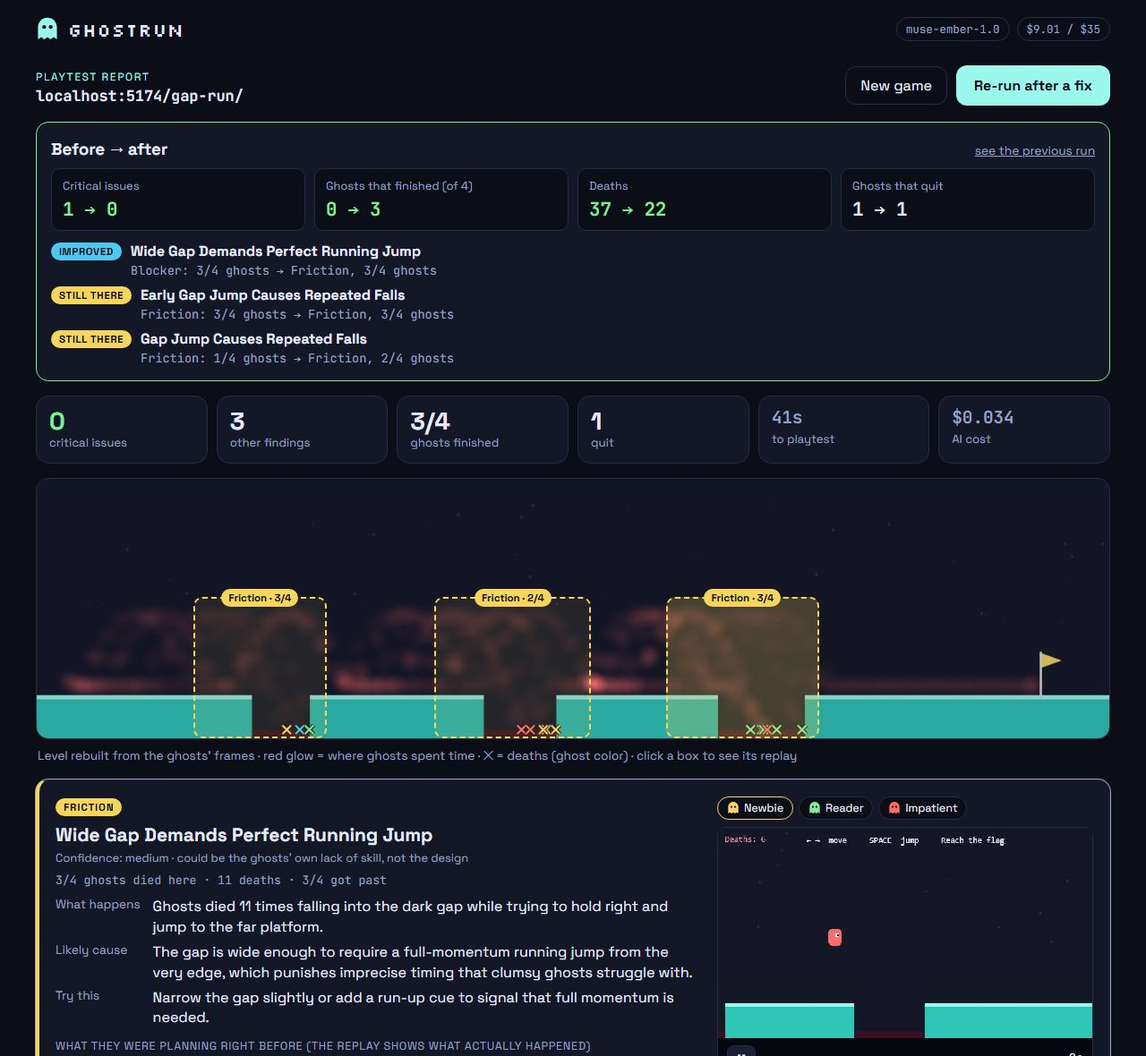
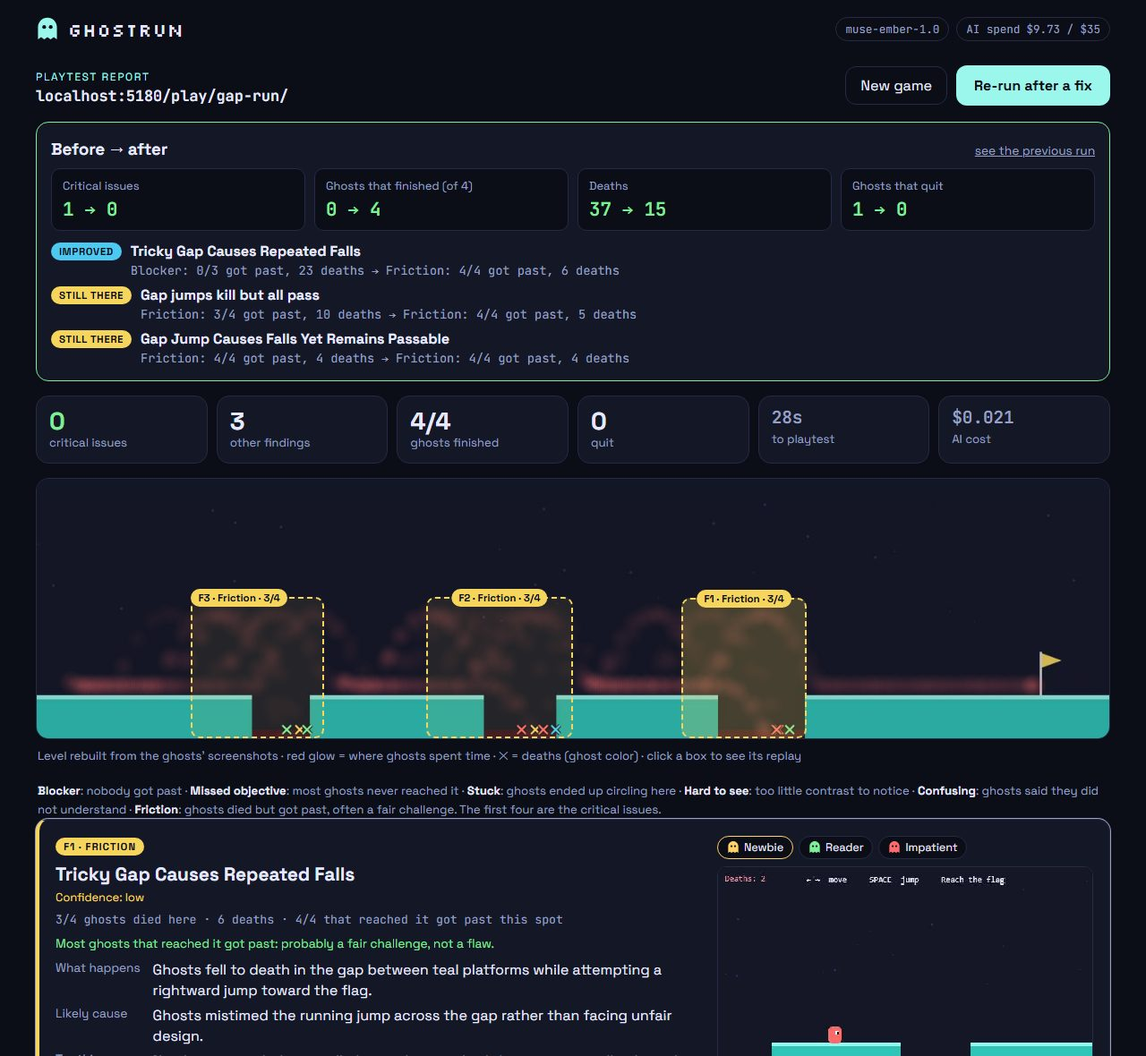
Docs: held-out results first, measured limits, second review round
- README and benchmark lead with the held-out third round (9/10, 0/10), show
  friction on clean games, the rules decided after looking at the data and
  95% intervals; cases table counts six runs per case.
- The written cause of a card is named as the least reliable part, with the
  measurement behind it.
- failure-handling: the second attack round and the analyst's check.
- ai-review-log: the second round of ten test agents.
- New gallery from real runs of the current version.

diff --git a/bench/README.md b/bench/README.md
@@ -18,8 +18,19 @@ The known answer for each flaw (its type and the area of the level where it is) 
 
 For each run, 4 ghosts (Newbie, Speedrunner, Reader, Impatient) play up to 40 moves each with `muse-ember-1.0`, then the analysis (no AI) produces findings.
 
-- **Found** = a finding of a compatible type overlaps the area of the planted flaw.
-- **False alarm** = a high-severity blocker, missed-objective, stuck or hard-to-see finding on a clean game.
+- **Found** = a **critical** finding (high-severity blocker, missed objective, stuck or hard to see) of a compatible type overlaps the area of the planted flaw.
+- **False alarm** = the same kind of critical finding on a clean game.
+
+What this rule does and does not measure (several of these were pointed out by a skeptical-reviewer agent, 21 Nov):
+
+- **"Friction"** (ghosts died at a spot but got past) counts neither way. It also shows up on clean games, at hard but fair spots: in 18 of the 30 clean runs of the last three rounds. The report labels it as probably fair.
+- A missed-objective finding also counts when it names the planted objective (for example "lever"). It changes nothing here: all 17 critical objective findings on flawed games also overlap the flaw's area.
+- Read Me's flaw (the instructions name the wrong key) is found through its effect: a blocker or a missed objective at the pit that needs the dash. The "confusion" finding type itself is not scored, so this benchmark does not test it.
+- With 30 flawed and 30 clean runs the uncertainty is wide: 27/30 found means 74–97%, and 0/30 false alarms means at most 11% (95% Wilson intervals). The held-out third round alone: 9/10 means 60–98%, 0/10 at most 28%.
+- Costs are the token counts Meta returns, priced with Meta's published prices (read on 21 Nov, `src/brains/prices.mjs`), not an invoice.
+- All five games and their flaws were made by us (with AI help, checked by a person: [review log](../docs/ai-review-log.md)). NILO, [below](#hard-case-a-real-jam-game-we-did-not-make), is the one game made by someone else.
+
+One rule for both, since 21 November (night): before, a "friction" finding also counted as found, which was too lenient ([below](#the-scoring-rule-we-changed-after-a-review)). Older rows in the table keep the rule they were scored with; the "strict" rows re-score the same runs.
 
 Run it yourself: `npm run bench -- --label mine --reps 2` (needs `MODEL_API_KEY`), then `node bench/compare.mjs before-cache mine`. Add `--ask-position` to also measure how well the ghosts see their character (`node bench/perception.mjs mine`).
 
@@ -35,12 +46,27 @@ Run it yourself: `npm run bench -- --label mine --reps 2` (needs `MODEL_API_KEY`
 | [optimized-v3](results/optimized-v3.md) | cheaper, better-informed ghosts ([below](#cheaper-and-better-ghosts)) | 8/10 | 0/10 | $0.015 billed |
 | optimized-v3, re-scored | + contrast check of objectives ([below](#what-ai-eyes-see-that-people-do-not)), same runs | **10/10** | **0/10** | — |
 | [optimized-v3-holdout](results/optimized-v3-holdout.md) | same code, **fresh runs** (8/10 by the ghosts alone), re-scored with the contrast check | **10/10** | **0/10** | $0.016 billed |
+| optimized-v3 + holdout, **strict rule** | same 40 runs, critical findings only, plus the analysis fixes found by test agents | **18/20** | **0/20** | — |
+| [optimized-v5](results/optimized-v5.md) | the same version, **fresh runs** played after those fixes, strict rule | **9/10** | **0/10** | $0.015 billed |
 
 "Billed" counts cached input at Meta's cached rate; earlier rows are list price (cached tokens were not recorded yet), so compare them with care. Measured with the cache, the old ghosts cost $0.018 per run, not $0.025.
 
 **Why the rule changed.** In the baseline, both false alarms were in the clean Spike Maze: in single-screen games we only counted a ghost as "getting past" a deadly spot if it finished the level, and ghosts that ran out of moves near the end looked blocked. The new rule: a ghost gets past a spot if it later reaches an objective; a **blocker** needs at least two ghosts dying there three or more times with nobody getting past. Because the rule was changed after seeing those runs, we judged it on a fresh run (holdout).
 
 **The one false alarm in the holdout** (clean Lever Room): two ghosts spent their moves trying to climb the closed door, which they read as a ladder (*"holding up never actually climbed me higher"*). We count it as a false alarm, but it may be a real readability issue in our own test game.
+
+### The scoring rule we changed after a review
+
+On 21 November (night) we had the project reviewed by ten AI agents playing roles (a jam developer, a teenager in a hurry, a phone user, a teacher, an attacker, four judges, a skeptical engineer; Claude Haiku, each one using the real app or code). The skeptical engineer found that our "found" rule was too lenient: a **friction** finding (ghosts died but got past) counted as finding a flaw, and friction also appears at the same places in the **clean** versions of two games (Spike Maze's spikes, Read Me's pit). So for those two games, "found" did not tell the flawed version from the clean one. We checked it on the data and he was right:
+
+| Same 40 runs (optimized-v3 + holdout) | Flawed versions: flaw "found" | Clean versions: the same rule fires |
+|---|---|---|
+| Old rule: any compatible finding, friction included | 20/20 | 8/20 (Spike Maze and Read Me) |
+| **New rule: critical findings only** | **18/20** | **0/20** |
+
+Now one rule decides both "found" and "false alarm". The two misses are Spike Maze's invisible spikes, which the ghosts only reported as friction in one run of each round. The test agents also found three analysis bugs, fixed and covered by tests: a wide gap whose deaths split into two contradicting findings ("2/4 got past" next to "0/4 got past" for the same gap), ghosts that ended stuck attached to the wrong finding, and single deaths shown as findings. Re-scoring the 90 recorded runs with the fixes changed no result for the worse. A fresh round played after the fixes and not used to tune anything ([optimized-v5](results/optimized-v5.md)) found 9/10 flaws with 0/10 false alarms, like each earlier round, with the same miss. Across the three rounds: **27/30** found, **0/30** false alarms (`node bench/compare.mjs before-cache-v5 optimized-v3-gapfix+optimized-v3-holdout-gapfix+optimized-v5-gapfix`).
+
+Checking the new screenshots afterwards, we found that the merge for wide gaps also joined two neighbouring gaps into one finding: the run-up to the second gap starts where the first gap's area ends, so their areas touched. Now two areas are one place only if they overlap by at least a quarter of the smaller one (the two halves of one wide gap overlapped 54% and 89% in our runs; neighbouring gaps 1–10%). Re-scoring the three rounds with it ("-gapfix"): the same 27/30 and 0/30; in four Gap Run runs a finding that spanned two gaps became two findings.
 
 ## Perception: does the model see its own character?
 
@@ -100,7 +126,7 @@ A pass on the ghost loop (21 Nov), each change measured. 40 fresh runs of the ne
 
 | | Before (10 runs) | After (40 runs) |
 |---|---|---|
-| Flaws found | 5/5 | 16/20 by the ghosts, **20/20** with the contrast check ([below](#what-ai-eyes-see-that-people-do-not)) |
+| Flaws found (strict rule: critical findings only) | 5/5 | **18/20**: 14 by what the ghosts did, 4 by the contrast check ([below](#what-ai-eyes-see-that-people-do-not)) |
 | Clean runs with a false alarm | 0/5 | **0/20** |
 | Ghosts that finished the clean games | 60% | **74%** |
 | Moves per run | 113 | **90** (−20%) |
@@ -127,7 +153,7 @@ Tried and rejected:
 - **Fewer moves per ghost**: 30 instead of 40 saved 9% of the moves, but 3 fewer ghosts finished. Kept 40 (the app lets you choose 20, 40 or 60).
 - **Not asking for the ghost's position where the game already knows it.** Games with the SDK report positions themselves, so we dropped the ghost's own position estimate and "what I see" from its answer. On 120 recorded moves re-sent both ways, output fell from 263 to 229 tokens ([probe](results/probe-fields.md)), and a full round ([optimized-v4](results/optimized-v4.md)) cost **13% less** with the same flaws found. But 2 of its 10 clean runs got a false alarm, both at the visible spikes by Spike Maze's exit. A targeted test (Spike Maze clean, 4 runs each way: [maze-compact](results/maze-compact.md), [maze-full](results/maze-full.md)) pointed the same way: without the field, 4 of 16 ghosts died there 3 or more times, with it none. Pooling every round, ghosts died by those spikes 1.9 times each without the field and 1.1 with it, and clean maze runs got a false alarm in 2 of 6 without it, 0 of 8 with it. Asking the model where it is makes it reason about where it is, and that matters next to hazards. **Rejected**: the field stays.
 
-**Against our own target.** We aimed at −40% cost per run and got −17% for the ghosts and −47% for the analyst, about −30% for a full playtest. The ghosts now reason more per move (149 vs 109 tokens) because they have more to reason about: that is the price of better decisions, and a run is still cheaper because it needs fewer moves.
+**Against our own target.** We aimed at −40% cost per run and got −17% for the ghosts and −47% for the analyst, about −25% for a full playtest ($0.026 → $0.019). The ghosts now reason more per move (149 vs 109 tokens) because they have more to reason about: that is the price of better decisions, and a run is still cheaper because it needs fewer moves.
 
 Found on the way: Meta's structured output returns the fields in **alphabetical order** ([probe-output.mjs](probe-output.mjs)), so a ghost writes its "thought" after its keys. That matches review R3: the sentences are the ghost's plan for the move, not a description of what happened.
 
@@ -145,7 +171,7 @@ So Ghostrun now also **measures** it, without AI: for each objective the game ma
 | Lever Room | door | 12.9:1 | 12.9:1 |
 | Spike Maze | checkpoint | 3.6:1 | 3.6:1 |
 
-Measured on the recorded screens of 70 benchmark runs ([contrast.md](results/contrast.md)), it flags exactly the two planted invisible objects and nothing on any clean game. Re-scoring 90 recorded runs with it (45 of them clean) added no false alarm, and both rounds of the new version find **10/10** flaws with **0/10** false alarms. It was designed after the first round; the second round was played before it existed and was not used to tune it.
+Measured on the recorded screens of 70 benchmark runs ([contrast.md](results/contrast.md)), it flags exactly the two planted invisible objects and nothing on any clean game. Re-scoring 90 recorded runs with it (45 of them clean) added no false alarm, and the faint key went from missed to found in all 4 runs of the two rounds (with the strict rule, each round finds 9/10 flaws with 0/10 false alarms); a third round, played later, found the faint key in both of its runs and nothing on the clean games. It was designed after the first round; the second round was being played at the same time and was not used to tune it. All rounds use the same five games, so this is a check on fresh plays, not on new games.
 
 Limit: it only checks objects the game declares. An undeclared hazard (Spike Maze's invisible spikes) is still found only through what the ghosts do (deaths), which worked there because dying is visible to any player.
 
@@ -153,7 +179,7 @@ Limit: it only checks objects the game declares. An undeclared hazard (Spike Maz
 
 Rafael played all ten variants himself with the SDK's recorder on (`?human=1`, see `games/index.html`) — [results](results/people-vs-ghosts.md).
 
-**Every spot where he died or ended up stuck was also flagged by the ghosts: 4/4.**
+**Every spot where he died or ended up stuck was also flagged by the ghosts: 4/4.** Two of the four only as friction, which the strict benchmark rule does not count. It measures one direction only (what he hit, did the ghosts flag it?), with one person who already knew the flaws: a first check, not a blind test.
 
 - Gap Run with the flaw: he died 3 times at the third gap and left → the ghosts' **blocker**.
 - Spike Maze with the flaw: he died once at the visible spikes near the exit → a ghost **friction** finding.

diff --git a/README.md b/README.md
@@ -12,7 +12,7 @@ Built by Rafael Gálvez (solo, student) for the [Global AI Builder's Challenge](
 
 In a game jam you build a game in 48–96 hours. Three hours before the deadline it works… for you: you know the level by heart, so you cannot see what a newcomer will not understand. Everyone else is busy with their own game, so nobody playtests yours. You ship blind, and the comments ("I didn't know what to do in level 2") arrive after the jam, when you can no longer fix anything.
 
-It is not a small group: the GMTK Game Jam 2025 alone received [9,515 games in four days](https://itch.io/jam/gmtk-2025/entries). Studios pay for AI playtesting ([nunu.ai raised about $6M](https://gamesbeat.com/nunu-ai-raises-6m-for-ai-agents-dubbed-unembodied-minds-for-game-testing/)); jam developers, mostly students and hobbyists, have nothing.
+It is not a small group: the GMTK Game Jam 2025 alone received [more than 9,500 games in four days](https://itch.io/jam/gmtk-2025/entries). Studios pay for AI playtesting ([nunu.ai raised about $6M](https://gamesbeat.com/nunu-ai-raises-6m-for-ai-agents-dubbed-unembodied-minds-for-game-testing/)); jam developers, mostly students and hobbyists, have nothing.
 
 ## What Ghostrun does
 
@@ -30,21 +30,25 @@ It is not a small group: the GMTK Game Jam 2025 alone received [9,515 games in f
 
 ## Does it work? (measured, not claimed)
 
-Five small web games, each with a clean version and a version with one planted design flaw whose type and place we know ([benchmark](bench/README.md)). The current version, on 40 fresh runs:
+Five small web games, each with a clean version and a version with one planted design flaw whose type and place we know ([benchmark](bench/README.md)), played in three rounds of 20 runs. We changed rules after looking at the first two rounds, so the honest test is the third: played afterwards, and not used to tune anything.
 
-| | Result |
-|---|---|
-| Planted flaws found (right type, right place) | **20/20** |
-| Clean games with a false alarm | **0/20** |
-| Ghosts that finished the clean games | **74%** |
-| Cost and time per playtest (4 ghosts and the analyst) | **about $0.02, under a minute** |
-| Spots where a person died or got stuck that the ghosts also flagged | **4/4** ([people vs ghosts](bench/README.md#people-vs-ghosts)) |
+| | Third round (held out) | All three rounds |
+|---|---|---|
+| Planted flaws found: a critical finding of the right type in the right place | **9/10** | 27/30 (21 from what the ghosts did, 6 from the contrast measurement) |
+| Clean games with a false alarm: the same kind of finding where there is no flaw | **0/10** | 0/30 |
+| Clean games where the report still shows a hard spot ("friction": ghosts died there but got past; counted neither way) | 6/10 | 18/30 |
+| Ghosts that finished the clean games | 78% | 75% |
+
+- **Cost and time per playtest** (4 ghosts and the analyst): about $0.02 and under a minute on these games (41 s on average; the maze takes about a minute).
+- **People vs ghosts:** every spot where a person died or got stuck was also flagged by the ghosts, 4/4 (2 of them only as friction). One person, the developer, not blind ([details](bench/README.md#people-vs-ghosts)).
+
+One rule decides "found" and "false alarm", so neither can be bought with the other: only critical findings count. "Friction" counts neither way, because it also shows up on clean games at hard but fair spots, and the report labels it as probably fair. The miss of each round is Spike Maze's invisible spikes, which the ghosts reported only as friction. Decided after looking at the first two rounds: counting only critical findings ([why](bench/README.md#the-scoring-rule-we-changed-after-a-review)), the contrast check with our own 1.5:1 line for "practically invisible" (the faint key measures 1.09:1), and treating the deaths at both edges of one wide gap as one spot. With so few runs the uncertainty is wide: 27/30 means 74–97% and 0/30 false alarms means at most 11% (95% intervals).
 
 | Case | What happened |
 |---|---|
-| Normal: Gap Run, one gap too wide to jump | Blocker at that gap in 4/4 runs |
-| Normal: Key Hunt, key drawn in the floor colour | "Hard to see" (contrast 1.09:1) in 4/4 runs |
-| Repeat: the same 10 variants, a second fresh round | 10/10 flaws and 0/10 false alarms again |
+| Normal: Gap Run, one gap too wide to jump | Blocker at that gap in 6/6 runs (three rounds) |
+| Normal: Key Hunt, key drawn in the floor colour | "Hard to see" (contrast 1.09:1) in 6/6 runs |
+| Repeat: the same 10 variants, played in three separate rounds | 9/10 flaws and 0/10 false alarms in each round (the same miss) |
 | Hard: [NILO](games/third-party/nilo/README.md), a real jam game we did not make, unmodified, no SDK | The ghosts got through its mouse-only menu by themselves, and all four got stuck at the start of level 1. A person confirmed half the diagnosis: the controls are confusing, but the jump was not too hard ([partial success](bench/README.md#hard-case-a-real-jam-game-we-did-not-make)) |
 
 ![A finding card: the key is too faint against the background, with the measured contrast and a replay](docs/img/report-hard-to-see.jpg)
@@ -68,7 +72,7 @@ Five small web games, each with a clean version and a version with one planted d
 | **Prompt built for Meta's prompt cache**: stable part first, append-only move log, a shared `prompt_cache_key` | 48% of the input served from cache | 70% (cached input costs 25× less) |
 | **Stop a ghost once it has shown enough** (8 deaths at one spot, or 20 moves without new ground) | — | 15% fewer moves on replayed runs, same flaws found |
 
-Together, these made a run 17% cheaper for the ghosts and the analyst's cards 47% cheaper, about 30% less per playtest. We also report what we rejected: smaller screenshots (8% cheaper, worse perception), not asking the ghost for its position (13% cheaper, but twice the deaths next to hazards), shorter memory, stricter stops ([tried and rejected](bench/README.md#cheaper-and-better-ghosts)).
+Together, these made a run 17% cheaper for the ghosts and the analyst's cards 47% cheaper, about 25% less per playtest. We also report what we rejected: smaller screenshots (8% cheaper, worse perception), not asking the ghost for its position (13% cheaper, but twice the deaths next to hazards), shorter memory, stricter stops ([tried and rejected](bench/README.md#cheaper-and-better-ghosts)).
 
 **In development.** Ghostrun was built with heavy AI assistance: Claude Code wrote most of the code and documentation under Rafael's direction, and Claude subagents built four of the five test games. Where a person checked AI-made work, what was found and what changed is logged in the [AI review log](docs/ai-review-log.md). For example, a person's review of a real game (R5) showed that a card blamed a platform that was easy to reach, so every card now states its confidence and whether ghost skill could explain it.
 
@@ -133,6 +137,7 @@ Then pick "No game handy? Try ours" on the home page, or paste any web game's li
 - Ghosts **see faint shapes better than people**. Objectives the game declares are measured for contrast instead; undeclared ones are not.
 - They cannot tell intended difficulty from bad design. They show where players struggle; you decide.
 - Without the SDK, positions are what the ghosts report on screen, so in scrolling games the map is approximate.
+- **The written cause on a card is the least reliable part.** On recorded runs the analyst explained the too-wide gap correctly in 14 of 14 cards, but named the wrong key behind Read Me's flaw in only 6 of 12 ([every card](bench/results/analyst-blockers.md)). Trust the place, the numbers and the replay; read the cause as a guess to check.
 
 More in [the benchmark's limitations](bench/README.md#limitations).
 

diff --git a/docs/failure-handling.md b/docs/failure-handling.md
@@ -28,7 +28,8 @@ Structured output makes broken JSON rare, but an answer can still be cut off by 
 - The ghost **asks again once** with the same screen. The tokens of the failed answer are still counted in the cost.
 - If the second answer is unusable too, the ghost **waits 300 ms and keeps playing** instead of being lost, and the report lists it under "What went wrong during the run, and how it was handled".
 - Three unusable answers in a row end that ghost with a clear error (something is wrong with the model, and waiting would only cost money).
-- Covered by tests with a fake model (`test/brain.test.mjs`). In the 20-run benchmark after this change, 6 answers needed the retry and none needed the wait.
+- Covered by tests with a fake model (`test/brain.test.mjs`). In the 60 runs of the last three benchmark rounds, 10 answers needed the retry and 1 needed the wait; no ghost was lost.
+- **The analyst's card contradicts its own numbers.** On a spot that most ghosts who reached it got past, a card that suggests making it easier (a narrower gap, fewer hazards) is asked again once with the reason; if it still does, that suggestion is replaced by "No change needed…" and the rest of the card is kept (`test/explain.test.mjs`). Found on a gallery run: "probably a fair challenge" was printed right above "narrow the gap slightly".
 
 ## 4. Someone uses the public demo to reach places it should not (a problem with trust)
 
@@ -39,8 +40,21 @@ The ghosts' browser runs on our server, so a visitor's link could point it at th
 - Each visitor (by IP; behind a proxy set `TRUST_PROXY=1`) can start 6 playtests per hour (`RUNS_PER_HOUR`); the model is always Ember and runs are capped at 5 ghosts × 60 moves, so nobody can make a run cost 17× more by asking for Wonder; the simulated-outage test is off.
 - Other visitors' game links and runs are not listed, and recorded human playtests are not served; only the visitor who started a run can stop it.
 - Checked by `test/guard.test.mjs` and `test/server.test.mjs`, which starts the real server in this mode without an API key, and by a real run on a test game (no request blocked, the ghosts played normally).
+- **Attacked on purpose** by an AI agent playing an attacker (about 130 requests against a local copy in this mode). It confirmed the blocks for 35 disguised private addresses, but found what had slipped through, now fixed and covered by tests:
+  - `/runs//humans/…` (an extra slash) could read recorded human sessions and the spending file.
+  - Some IPv6 forms that carry a private IPv4 address (`::7f00:1`, 6to4 `2002:…`, site-local `fec0::`) were treated as public.
+  - An empty or `null` body on `/api/human` wrote a junk file or gave a server error.
+  - Unknown `/api/…` addresses answered with the web page instead of a 404.
+  A skeptical-engineer agent found two more: a visitor could choose their own address in `X-Forwarded-For` (the left part of that header is whatever the visitor sends; we now read it from the right, as many entries as there are trusted proxies) and persona names such as `constructor` were accepted.
+- **Attacked again after those fixes** (second round, a new agent, 22 Nov). Blocked: about 40 disguised private addresses, every other scheme (`file:`, `javascript:`, `data:`…), path tricks on every route, malformed and oversized bodies (400, 413, 431, never a 500), and script injection (the interface never renders HTML from data). It found five more, now fixed and covered by tests:
+  - On a disk that ignores upper and lower case (Windows), `/runs/HUMANS/…` read recorded sessions past the check for `humans`. Now `/runs/` serves only run folders, by their exact name (an allowlist instead of a list of exceptions).
+  - `/api/config`, and the "queue full" answer, told anyone the id of the run being played, which opens its live view and report. Now they only say whether one is playing.
+  - NAT64 for local use (`64:ff9b:1::/48`) passed as public. Now refused.
+  - Any site knowing a recorded session's id could overwrite it. Now only the visitor who started it can update it.
+  - WebSockets and service workers do not pass through the per-request check. Now WebSockets are checked like any request, and service workers are blocked.
+- **Known limit:** the address is checked when the link is submitted and before every request, but the browser looks the name up again when it connects. A site that switches its DNS answer to a private address in between (DNS rebinding) is not fully stopped. Closing it would need the browser to connect through our own proxy. Deploy the public demo where no sensitive internal service is reachable.
 
-Also in any mode: a run that takes longer than 8 minutes is stopped (`RUN_TIMEOUT_MS`); paths outside the runs folder are refused; malformed requests get a 400, not a server error; live streams send a heartbeat every 20 s so proxies do not cut them; finished runs drop their frame-by-frame events from memory (the 30 most recent stay, older ones are read from disk); the spending file is written atomically; on restart the active run is stopped cleanly.
+Also in any mode: a run that takes longer than 8 minutes is stopped (`RUN_TIMEOUT_MS`); paths outside the runs folder are refused; malformed requests get a 400, not a server error; live streams send a heartbeat every 20 s so proxies do not cut them, and if one drops anyway the live view opens it again and catches up from the start of the run (a test agent's live view froze after a dropped stream; checked by cutting the network for 5 s mid-run); finished runs drop their frame-by-frame events from memory (the 30 most recent stay, older ones are read from disk); the spending file is written atomically; on restart the active run is stopped cleanly.
 
 ## Other safeguards
 

diff --git a/docs/ai-review-log.md b/docs/ai-review-log.md
@@ -28,4 +28,6 @@ These are listed for transparency. Each was found by running the code, not by re
 | 2026-11-21 | Analyst reasoning effort | `minimal` vs `low` on the same 3 runs: cards as good (one `low` card blamed the arrow keys for hidden spikes), 47% cheaper, 45% faster (`bench/results/analyst-effort.md`) | `minimal`. **To be checked by a person** |
 | 2026-11-21 | Stricter stops and fewer moves, re-simulated on the 40 new runs | 6 deaths or 15 idle moves: 6–14% fewer moves but 3–6 fewer finishers and 2 new false alarms; 30 moves instead of 40: 9% fewer moves, 3 fewer finishers | **Rejected**: kept 8 deaths, 20 idle moves, 40 moves |
 | 2026-11-21 | Unused answer fields in games with the SDK | Without the position and "what I see" fields: output 263 → 229 tokens per move and a round 13% cheaper, but ghosts died twice as often by Spike Maze's spikes and 2 of 6 clean maze runs got a false alarm (0 of 8 with the fields) | **Rejected**: kept the fields |
+| 2026-11-21 | **Ten test agents** (Claude Haiku) playing a jam developer, a teenager in a hurry, a phone user, a teacher, an attacker, four rubric judges and a skeptical engineer, using the real app through a headless-browser driver (`scripts/drive.mjs`) or reading the code | Real: a wide gap split into two contradicting findings, stuck ghosts on the wrong finding, one-death findings, a "found" rule that also fired on clean games (the 20/20 was really 18/20), cards telling students to narrow gaps most ghosts crossed, `/runs//humans/` readable, a forgeable visitor address, no message for a wrong link, overflow on phones, old screenshots with the old name. Not real: "the card invented that the key looked faint" (the ghosts did say it; the card just did not show their words, now it does) | Fixed each real one with a test; numbers re-scored with the strict rule; second round of agents on the fixed version |
+| 2026-11-22 | **Second round: ten new test agents** (Claude Haiku) that had not seen the first, on the corrected version: a jam developer, a Spanish teenager who reads English at A2 level, a phone-only user, a keyboard-only user with low vision, an attacker, a skeptical ML researcher and four rubric judges | Checked one by one before changing anything. Real: choosing a test game did not fill in the link (2 agents); the live view froze if its stream dropped; the analyst blamed the size of Read Me's pit instead of its wrong key; ghost buttons announced as tabs without arrow keys, control borders at 1.38:1, unnamed canvases and progress bars, one page title for every screen; five security holes (paths in another case on Windows, the playing run's id in `/api/config`, local-use NAT64, overwritable sessions, WebSockets); headline numbers that mixed the rounds used to set the rules with the held-out one; numbers in the submission text that did not match its screenshots. Not reproduced: 404s on ghost traces. Not changed: the order of the home form (the main button stays next to the link) | Fixed, with tests where it can be tested. The README and the benchmark now lead with the held-out round and show friction on clean games and 95% intervals. The analyst change was measured on 13 recorded blockers: the gap explanation went from 6/7 to 7/7 right in two runs, the wrong-key explanation stayed unreliable (1/6, then 5/6 and 1/6), and the README says so ([every card](../bench/results/analyst-blockers.md)) |
 | 2026-11-21 | Ghosts told what each move did | Better players (74% finish clean games vs 60%), but they now reach Key Hunt's faint key (contrast 1.09:1) that R2 said a person "can't see, or barely": AI eyes see faint shapes people miss, so the flaw went from found to missed (0/2) | Kept the better ghosts and added a **measured contrast check** (WCAG 3:1) for objectives; flaw found again, no new false alarm when 90 recorded runs (45 clean) were re-scored |
